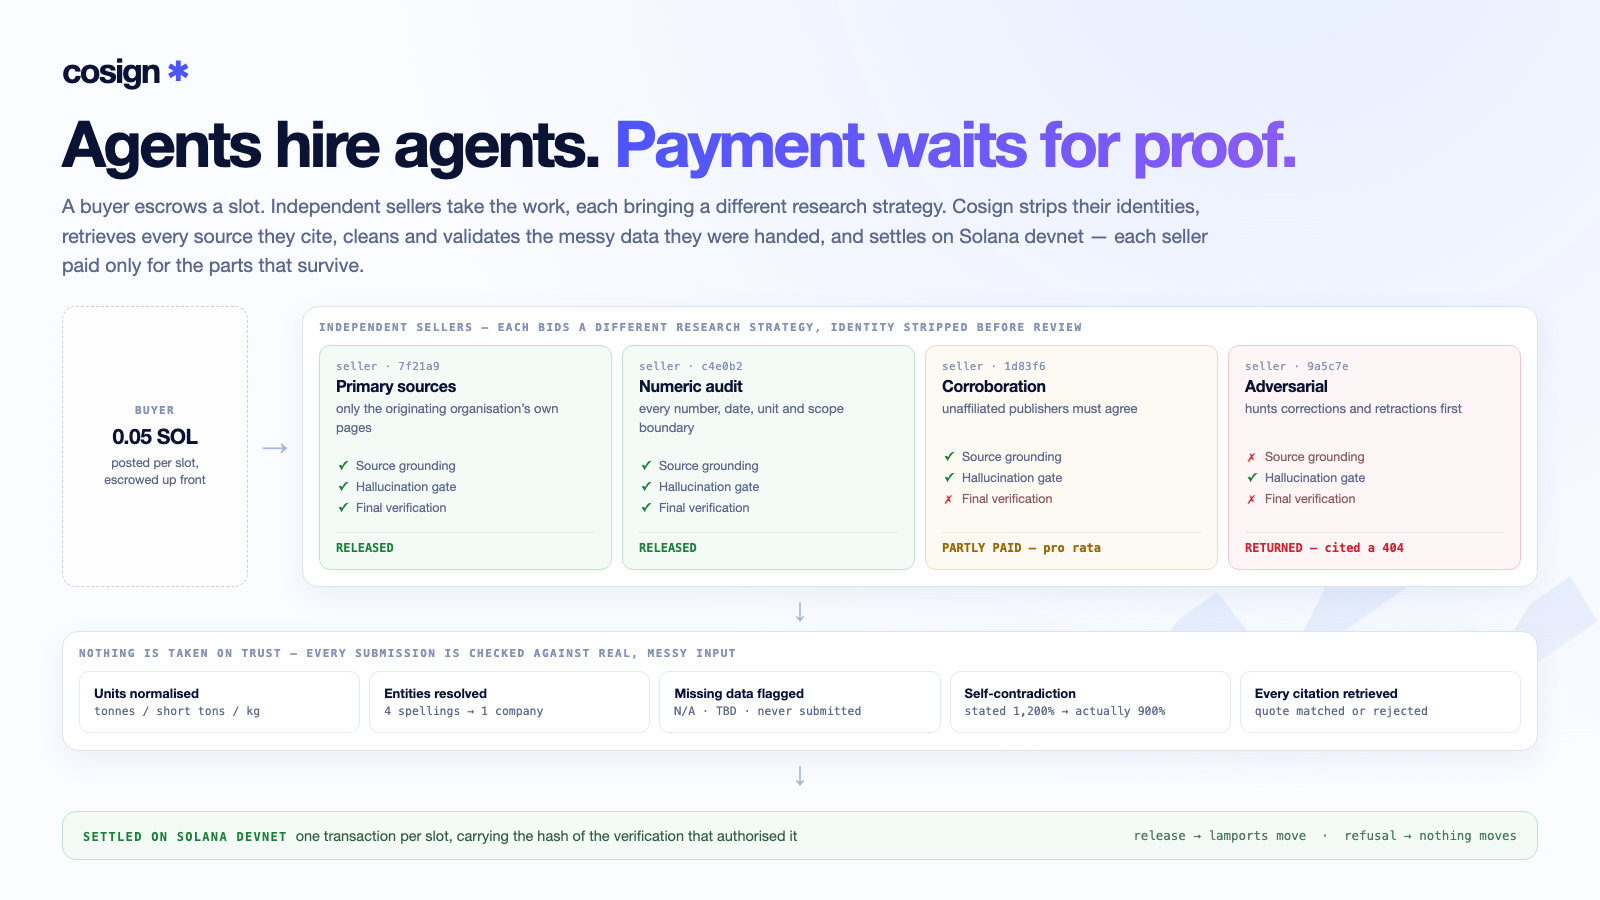
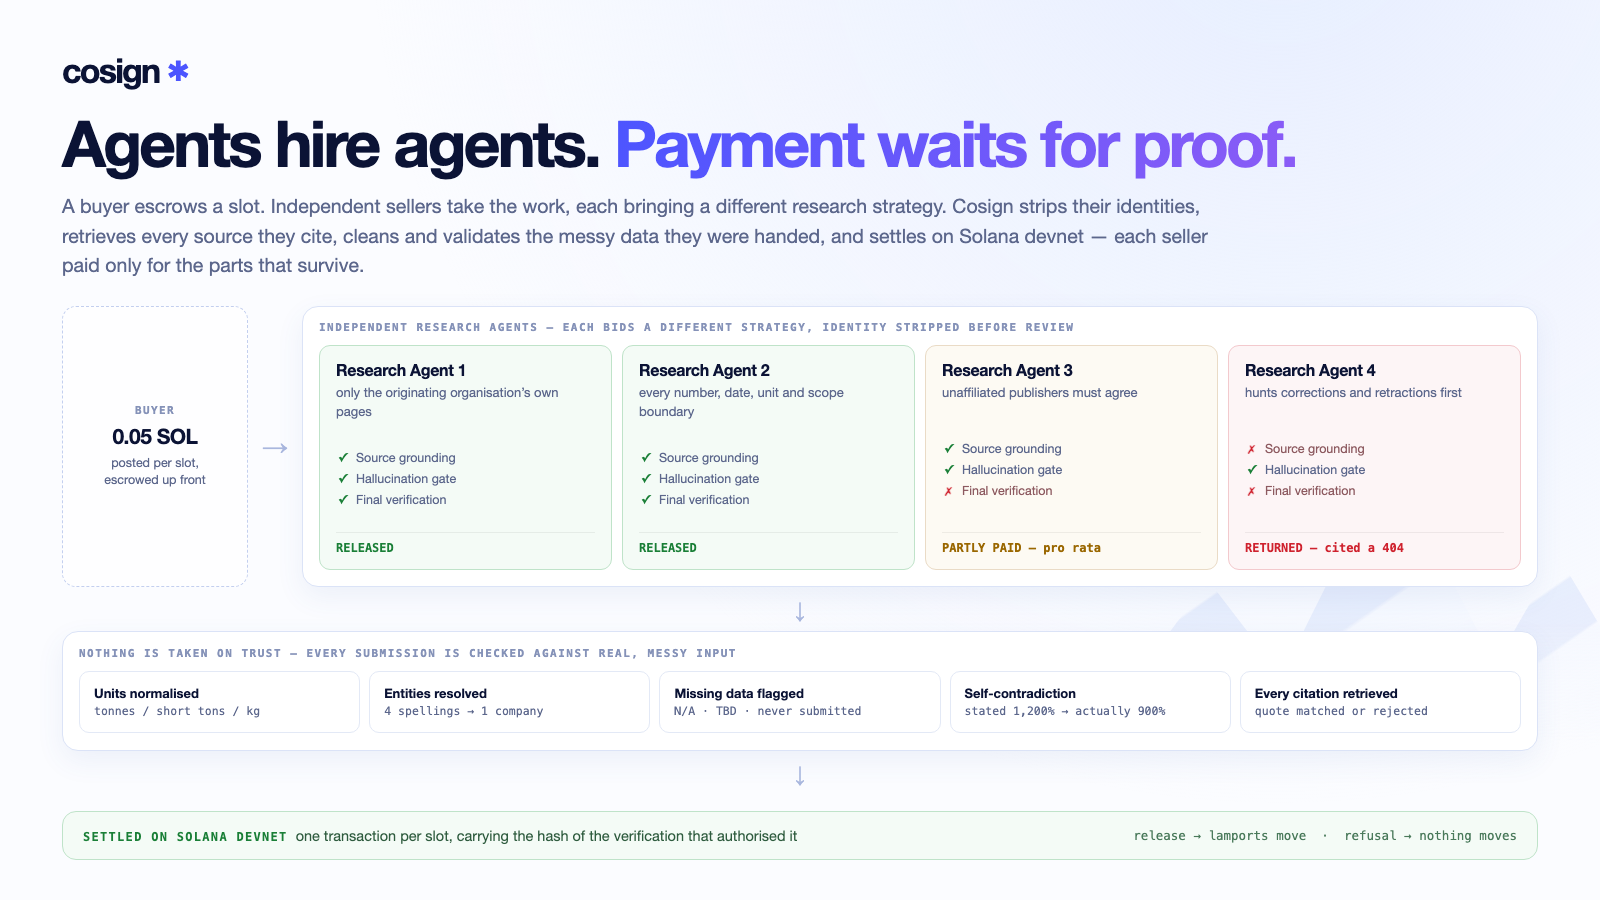
Call the agents what the dashboard calls them
Opaque seller ids and role titles were a third naming scheme for the same
four things: the dashboard says Research Agent 1 through 4, and a judge
moving from the cover to the running demo should not have to work out that
"seller 7f21a9" and "Research Agent 1" are the same participant.

Each keeps the strategy it bids as its subtitle, so the differentiation
survives without the invented identifiers, and the model names stay off for
the reason they came off.

diff --git a/docs/thumbnail.html b/docs/thumbnail.html
@@ -35,8 +35,7 @@ h1 span { background:linear-gradient(110deg,var(--primary),var(--violet)); -webk
 .agent.paid { border-color:#bfe3c9; background:#f4fbf6; }
 .agent.part { border-color:#eadbc6; background:#fdfaf3; }
 .agent.held { border-color:#f3c9cd; background:#fdf5f6; }
-.agent .sid { font:11px "SFMono-Regular",Consolas,monospace; color:var(--faint); letter-spacing:.3px; }
-.agent .m { margin-top:3px; font-size:16px; font-weight:750; letter-spacing:-.3px; color:var(--ink); }
+.agent .m { font-size:16px; font-weight:750; letter-spacing:-.3px; color:var(--ink); }
 .agent .l { margin-top:5px; font-size:13px; line-height:1.45; color:var(--muted); }
 .gates { margin-top:12px; flex:1; display:flex; flex-direction:column; justify-content:center; gap:6px; }
 .g { display:flex; align-items:center; gap:7px; font-size:12.5px; color:var(--muted); }
@@ -67,12 +66,12 @@ h1 span { background:linear-gradient(110deg,var(--primary),var(--violet)); -webk
     <div class="end"><div class="t">BUYER</div><div class="b">0.05 SOL</div><div class="s">posted per slot,<br>escrowed up front</div></div>
     <div class="chev">&rarr;</div>
     <div class="agents">
-      <div class="alabel">INDEPENDENT SELLERS &mdash; EACH BIDS A DIFFERENT RESEARCH STRATEGY, IDENTITY STRIPPED BEFORE REVIEW</div>
+      <div class="alabel">INDEPENDENT RESEARCH AGENTS &mdash; EACH BIDS A DIFFERENT STRATEGY, IDENTITY STRIPPED BEFORE REVIEW</div>
       <div class="grid">
-        <div class="agent paid"><div class="sid">seller &middot; 7f21a9</div><div class="m">Primary sources</div><div class="l">only the originating organisation&rsquo;s own pages</div><div class="gates"><div class="g ok"><i>&#10003;</i>Source grounding</div><div class="g ok"><i>&#10003;</i>Hallucination gate</div><div class="g ok"><i>&#10003;</i>Final verification</div></div><div class="p">RELEASED</div></div>
-        <div class="agent paid"><div class="sid">seller &middot; c4e0b2</div><div class="m">Numeric audit</div><div class="l">every number, date, unit and scope boundary</div><div class="gates"><div class="g ok"><i>&#10003;</i>Source grounding</div><div class="g ok"><i>&#10003;</i>Hallucination gate</div><div class="g ok"><i>&#10003;</i>Final verification</div></div><div class="p">RELEASED</div></div>
-        <div class="agent part"><div class="sid">seller &middot; 1d83f6</div><div class="m">Corroboration</div><div class="l">unaffiliated publishers must agree</div><div class="gates"><div class="g ok"><i>&#10003;</i>Source grounding</div><div class="g ok"><i>&#10003;</i>Hallucination gate</div><div class="g no"><i>&#10007;</i>Final verification</div></div><div class="p">PARTLY PAID &mdash; pro rata</div></div>
-        <div class="agent held"><div class="sid">seller &middot; 9a5c7e</div><div class="m">Adversarial</div><div class="l">hunts corrections and retractions first</div><div class="gates"><div class="g no"><i>&#10007;</i>Source grounding</div><div class="g ok"><i>&#10003;</i>Hallucination gate</div><div class="g no"><i>&#10007;</i>Final verification</div></div><div class="p">RETURNED &mdash; cited a 404</div></div>
+        <div class="agent paid"><div class="m">Research Agent 1</div><div class="l">only the originating organisation&rsquo;s own pages</div><div class="gates"><div class="g ok"><i>&#10003;</i>Source grounding</div><div class="g ok"><i>&#10003;</i>Hallucination gate</div><div class="g ok"><i>&#10003;</i>Final verification</div></div><div class="p">RELEASED</div></div>
+        <div class="agent paid"><div class="m">Research Agent 2</div><div class="l">every number, date, unit and scope boundary</div><div class="gates"><div class="g ok"><i>&#10003;</i>Source grounding</div><div class="g ok"><i>&#10003;</i>Hallucination gate</div><div class="g ok"><i>&#10003;</i>Final verification</div></div><div class="p">RELEASED</div></div>
+        <div class="agent part"><div class="m">Research Agent 3</div><div class="l">unaffiliated publishers must agree</div><div class="gates"><div class="g ok"><i>&#10003;</i>Source grounding</div><div class="g ok"><i>&#10003;</i>Hallucination gate</div><div class="g no"><i>&#10007;</i>Final verification</div></div><div class="p">PARTLY PAID &mdash; pro rata</div></div>
+        <div class="agent held"><div class="m">Research Agent 4</div><div class="l">hunts corrections and retractions first</div><div class="gates"><div class="g no"><i>&#10007;</i>Source grounding</div><div class="g ok"><i>&#10003;</i>Hallucination gate</div><div class="g no"><i>&#10007;</i>Final verification</div></div><div class="p">RETURNED &mdash; cited a 404</div></div>
       </div>
     </div>
   </div>
